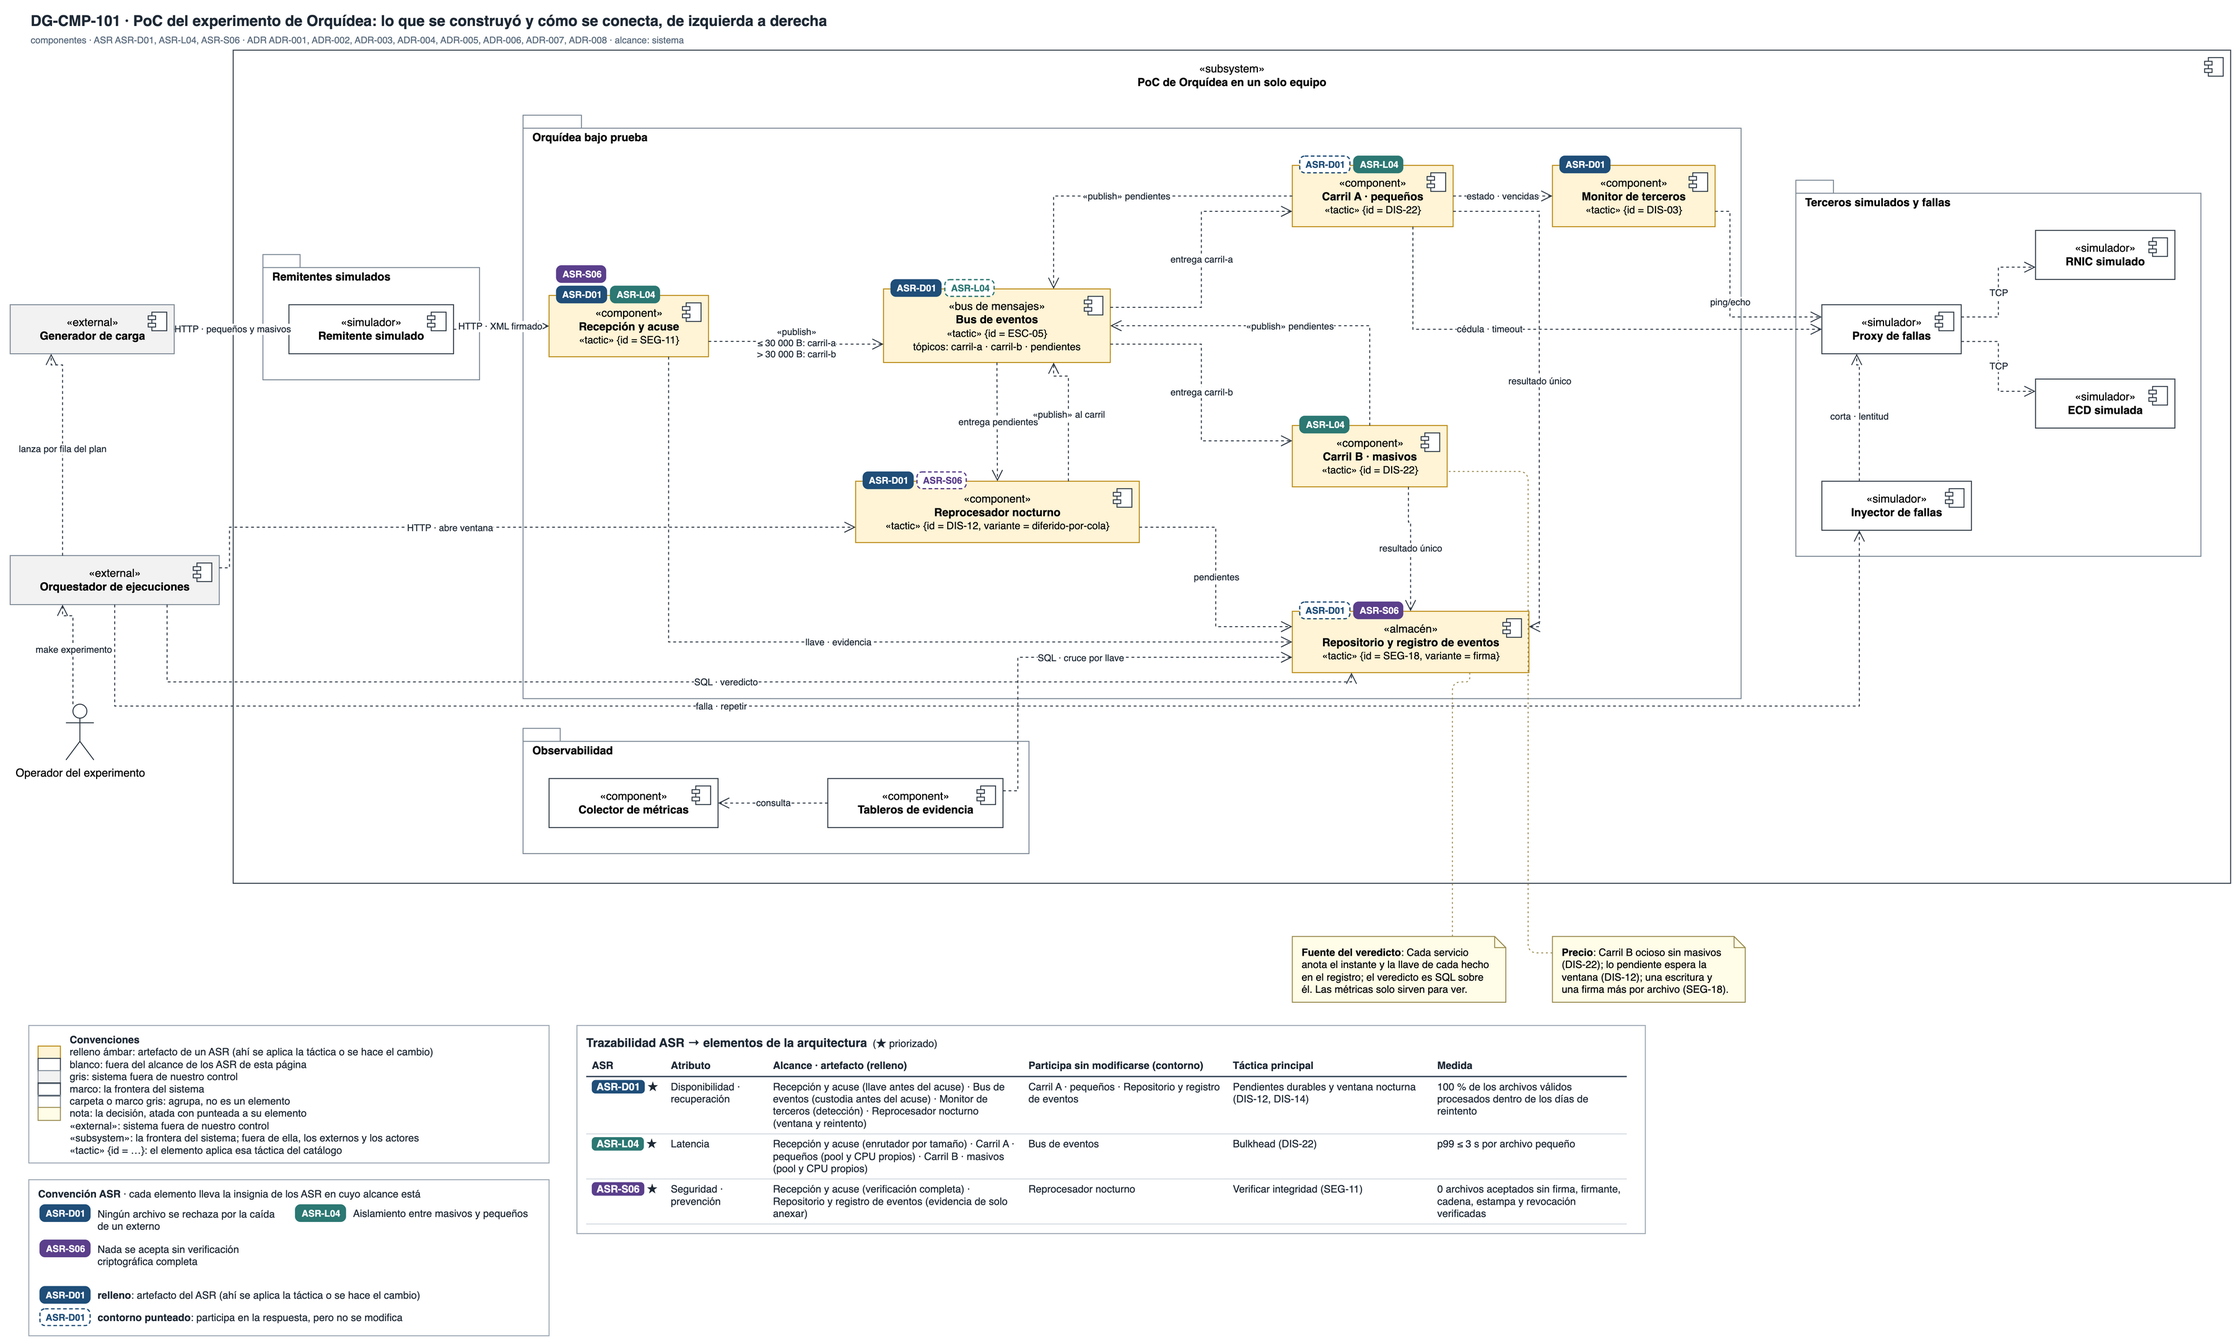
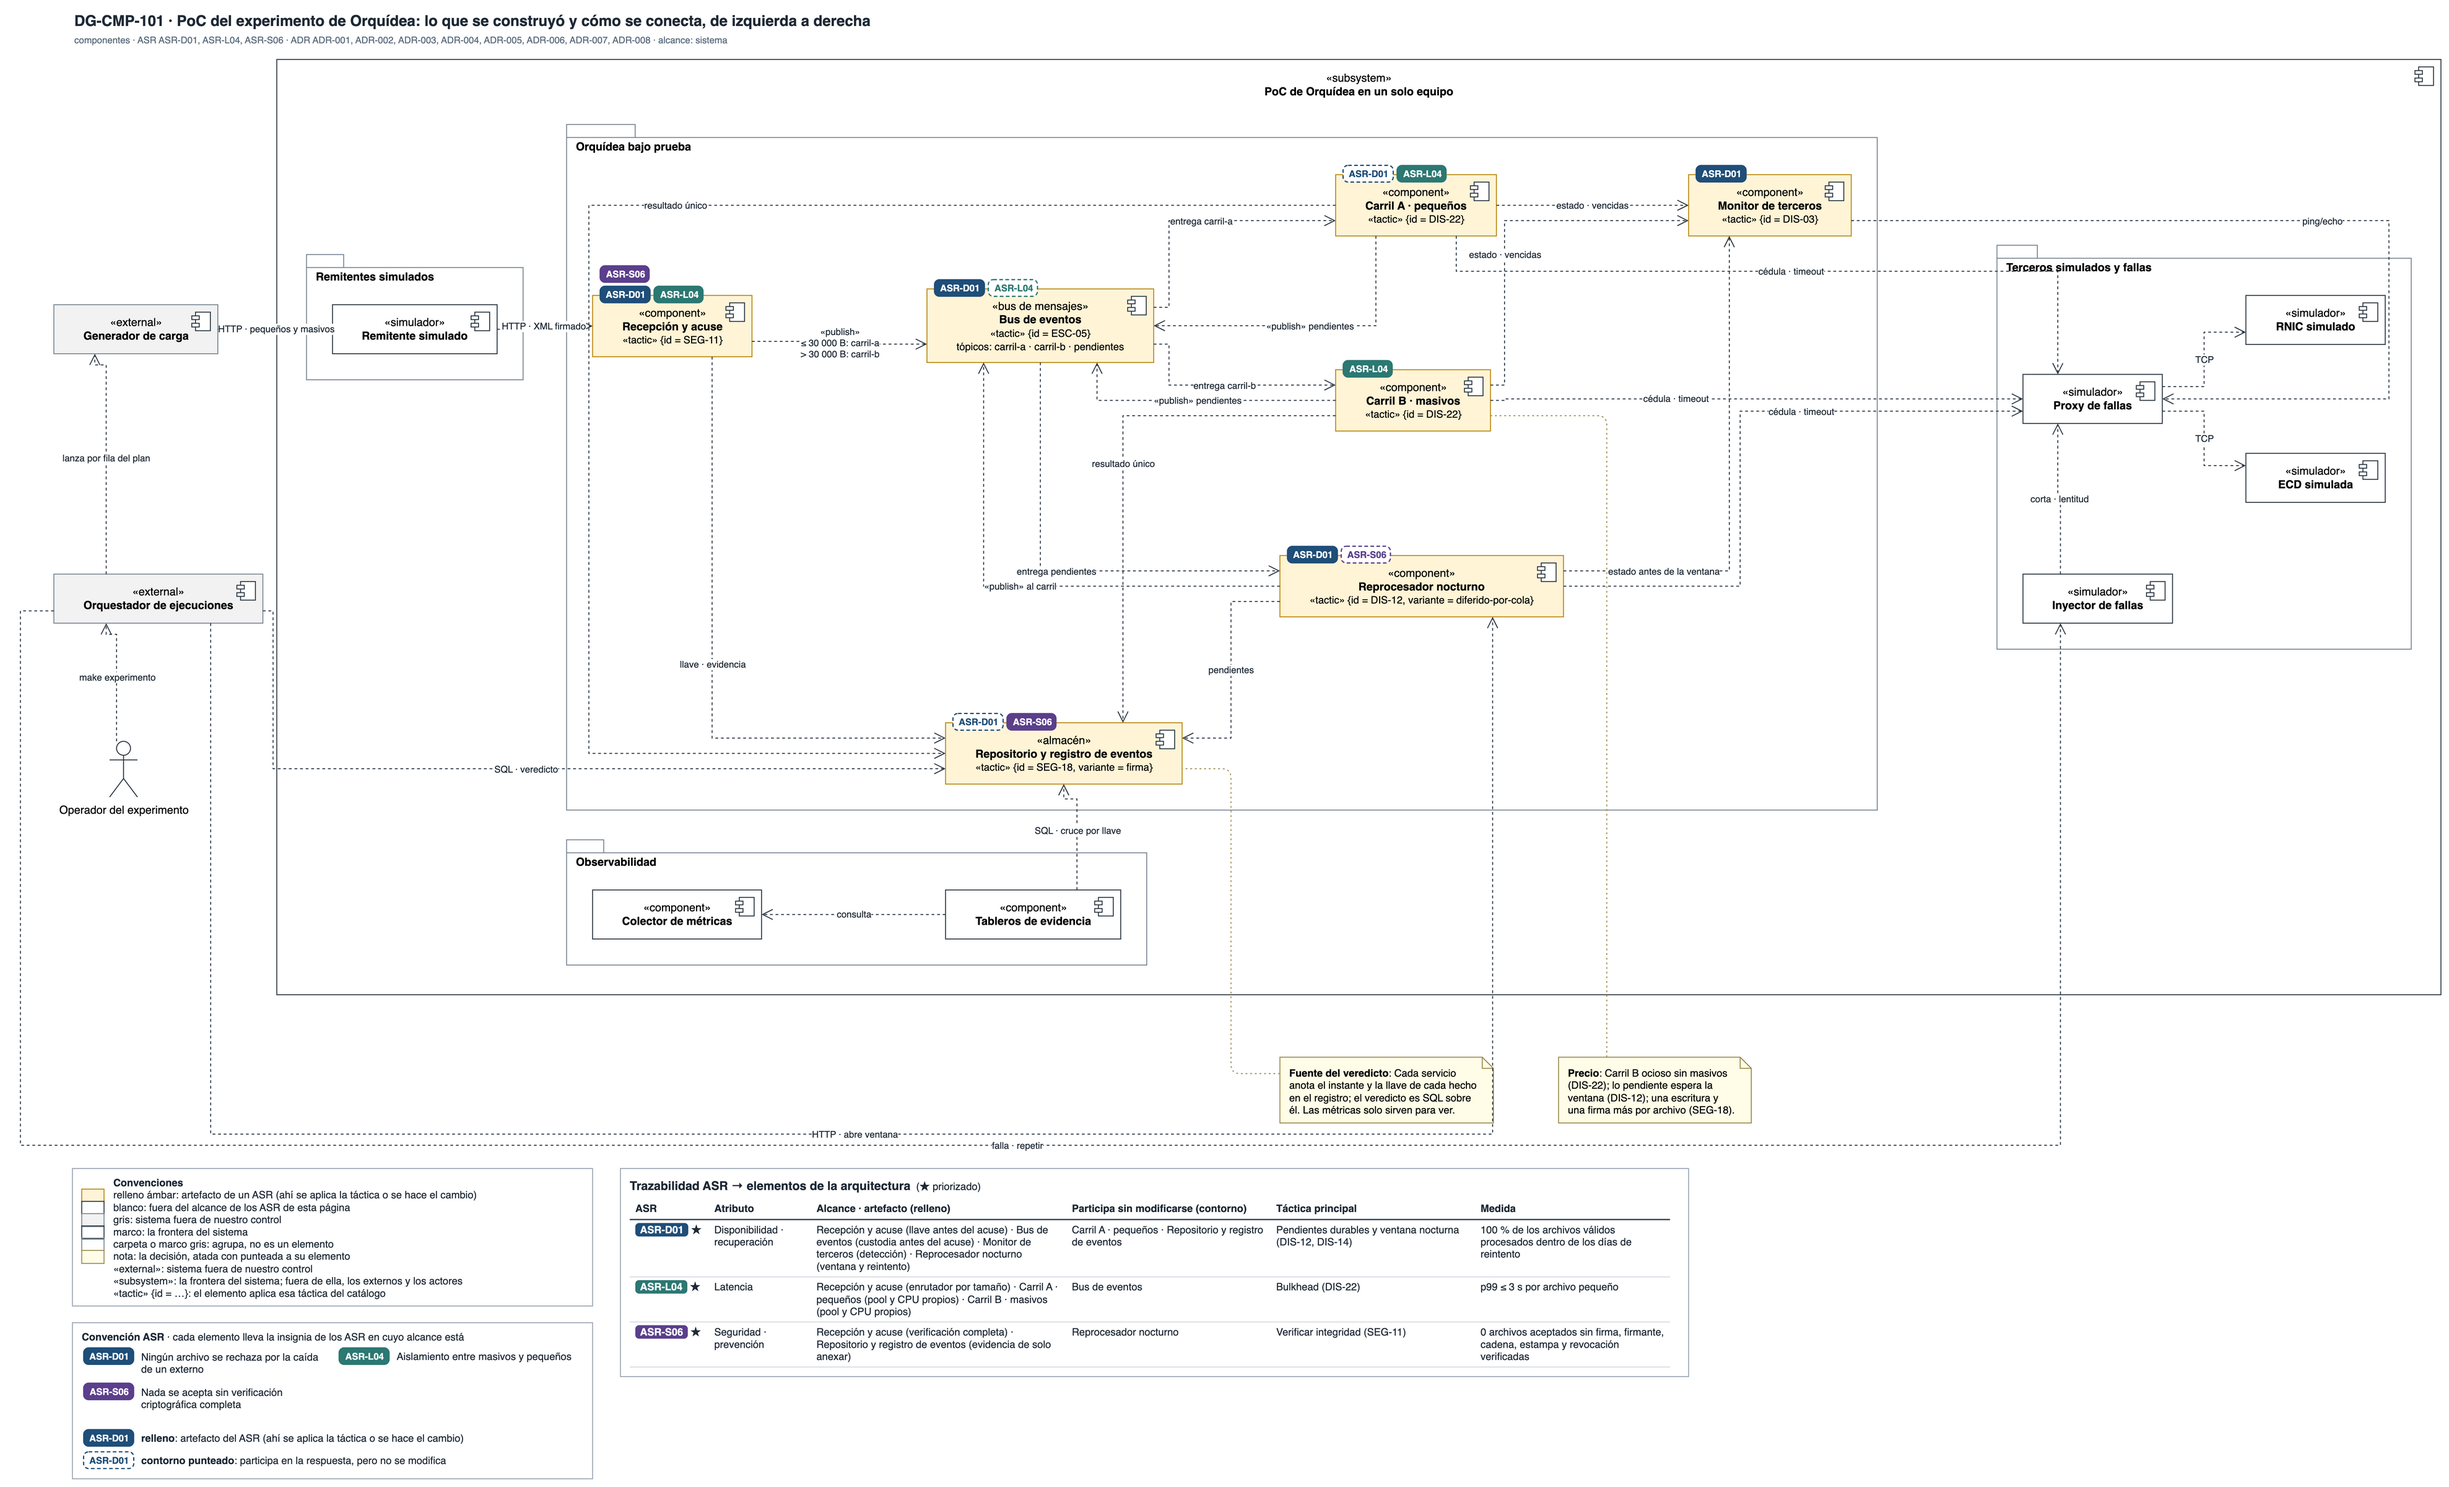
Vista del PoC: el carril B y el reprocesador también dependen del monitor
En DG-CMP-101 faltaban cuatro relaciones que el código sí tiene: el carril B
y el reprocesador consultan al monitor de terceros y le reportan las
llamadas vencidas, y llaman al RNIC a través del proxy. Se reacomoda la
vista para que el monitor quede junto a sus tres clientes.

diff --git a/docs/modelos/poc-experimento.md b/docs/modelos/poc-experimento.md
@@ -28,7 +28,7 @@ Cada diagrama se dibuja en el navegador a partir del archivo [`poc-experimento.d
 - **Qué muestra.** Se lee de izquierda a derecha, en el orden en que viaja un archivo: el generador de carga le pide al remitente simulado que arme y firme un archivo, la recepción lo recibe, el bus de eventos lo entrega al carril que le toca y el carril escribe el resultado en el repositorio. Las flechas que tocan el bus van en el sentido en que viaja el mensaje: quien publica apunta al bus y el bus apunta a quien recibe la entrega. A la derecha están los terceros simulados y el proxy que los corta. Abajo, la observabilidad. El orquestador y el generador de carga corren fuera de la frontera, en el equipo anfitrión. Cada componente de Orquídea lleva la táctica que aplica y la insignia de los ASR que toca.
 - **Cómo se elige el carril.** La recepción cuenta los bytes mientras el archivo llega. Con el último byte publica en `carril-a` si el archivo pesa 30 000 bytes o menos, y en `carril-b` si pesa más, sin abrirlo (SUP-07). El bus solo le entrega `carril-a` al carril A y `carril-b` al carril B. El umbral es un valor de prueba que BCR no ha fijado.
 - **Decisión que refleja.** La recepción custodia, verifica, registra la llave y enruta por tamaño antes de acusar (ADR-001, 004, 005, 006). Los dos carriles son contenedores separados, con pool y CPU propios (ADR-005); si el RNIC no responde, publican el archivo en `pendientes`. El monitor detecta la caída y el regreso del tercero (ADR-002), y el reprocesador corre la ventana nocturna (ADR-003, 007). La evidencia queda en un registro de solo anexar, firmado (ADR-008).
-- **Qué no muestra.** Que cada servicio también escribe sus hechos en el registro de eventos, que el colector de métricas raspa a los seis servicios cada 2 s, que la recepción consulta la CRL de la ECD a través del proxy y que el carril B y el reprocesador también llaman al RNIC. Se omitieron para que el diagrama se lea; están en el código y en la tabla de abajo.
+- **Qué no muestra.** Que cada servicio también escribe sus hechos en el registro de eventos, que el colector de métricas raspa a los seis servicios cada 2 s, y que la recepción consulta la CRL de la ECD a través del proxy. Los dos carriles y el reprocesador sí aparecen con sus dos relaciones hacia los terceros: le preguntan al monitor si el RNIC está caído y le reportan cada llamada vencida, y llaman al RNIC a través del proxy. Si el RNIC cae a mitad de un masivo, el carril B lo deja pendiente desde el lote donde quedó. Se omitieron para que el diagrama se lea; están en el código y en la tabla de abajo.
 
 ### De cada componente a lo que corre
 
